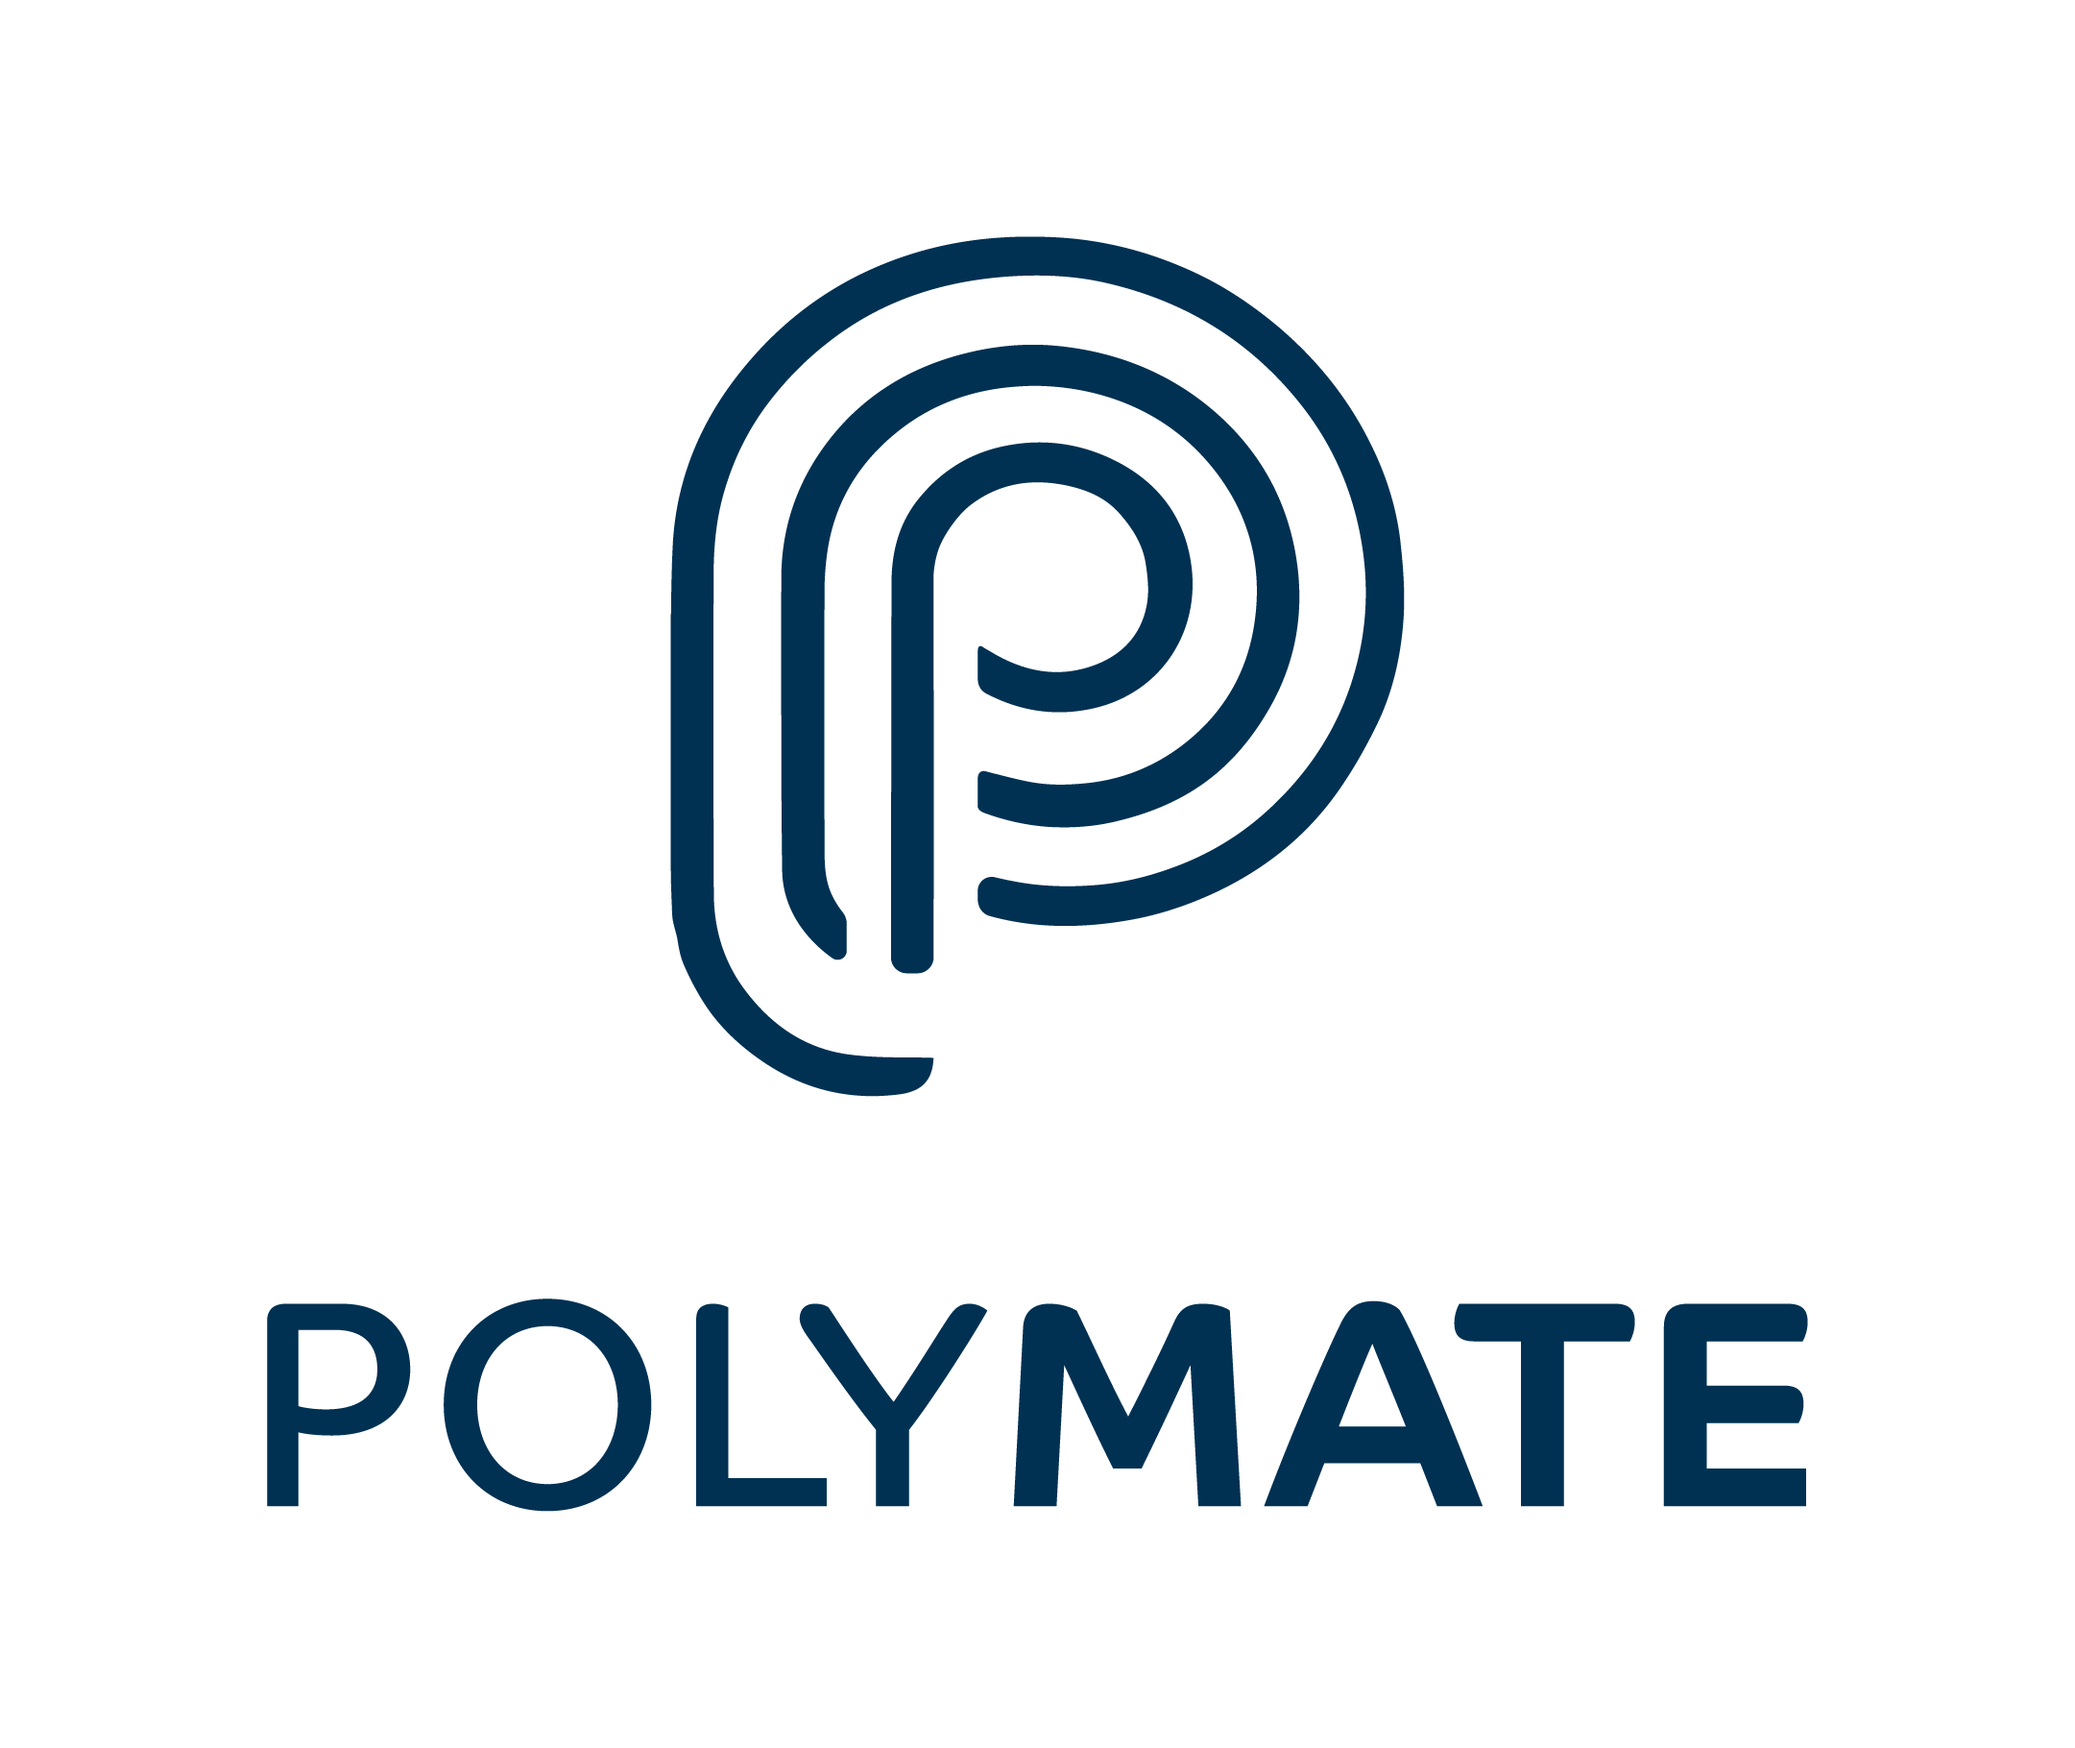
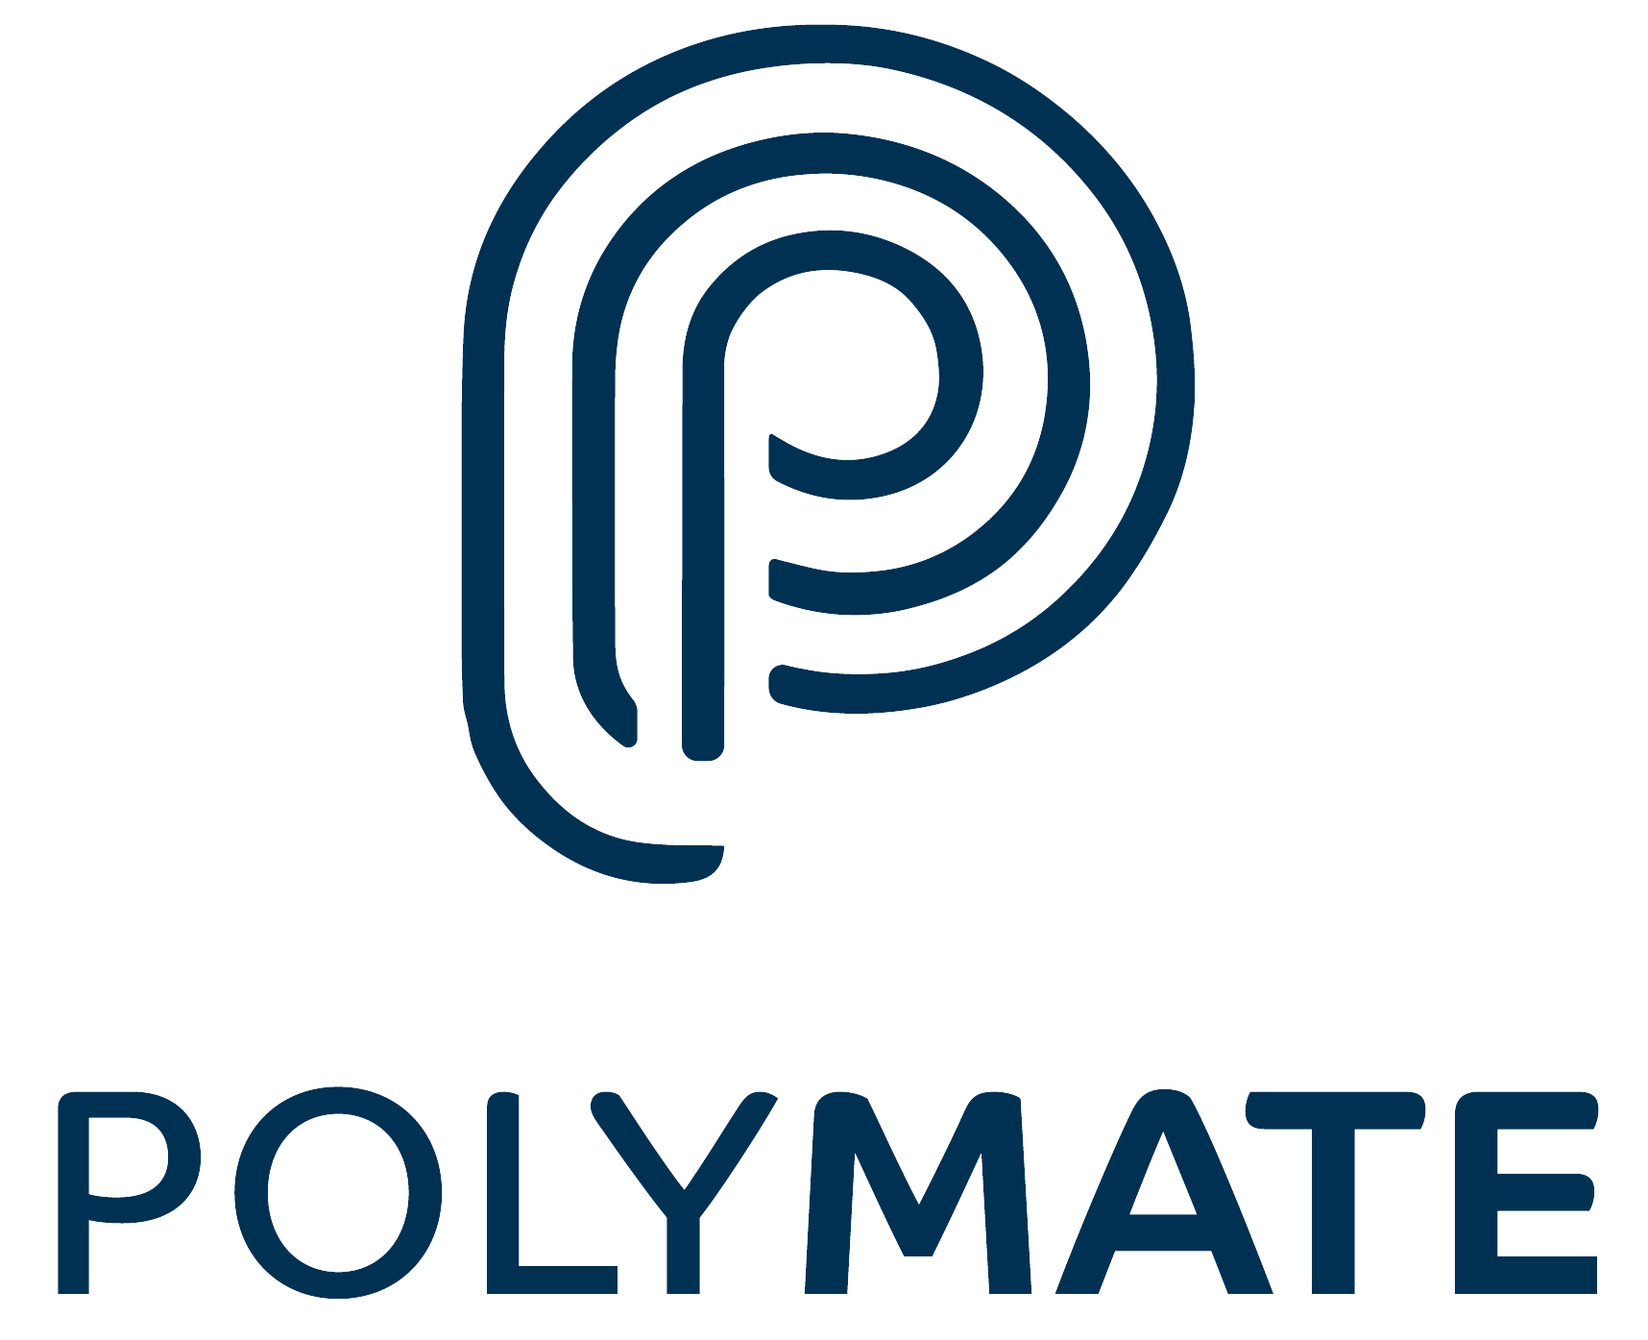
sponsor_changed

Changed region(s): [[0.278, 0.0, 0.7413, 0.6781], [0.0309, 0.7398, 0.9883, 0.9864]]

diff --git a/style.css b/style.css
@@ -98,10 +98,10 @@ header .shadow{
     display:grid;
     grid-template-columns: repeat(auto-fit, minmax(17rem, 1fr));
     align-items: center;
-    gap: 1.5rem;
-    background-image: url('images/robo2024_1.jpg');
+    gap: 2rem;
+    background-image: url('images/robo2024_7.JPG');
     background-size: cover; 
-    background-position: center; 
+    background-position: bottom;
 }
 
 .home-text h1{
@@ -129,7 +129,8 @@ header .shadow{
     background: var(--main-color);
     padding: 0.8rem 2rem;
     color: white;
-    font-weight: 500;
+    font-weight: 600;
+    font-size: 20px;
 }
 .register:hover{
     background: var(--main-color);
@@ -210,10 +211,71 @@ header .shadow{
     letter-spacing: 2px;
     transition: 0.2s;
 }
+
+.sponsor {
+    margin-top: 5rem;
+    padding: 50px 0;
+    background-color: #f9f9f9;
+    text-align: center;
+}
+.sponsor-content {
+    max-width: 1000px;
+    margin: 0 auto;
+    background: #fff;
+    padding: 1.5rem;
+    box-shadow: 0px 5px 15px rgba(0, 0, 0, 0.1);
+    border-radius: 10px;
+    text-align: center;
+}
+.sponsor-header h1{
+    font-size: 2rem;
+    color: var(--main-color);
+    border-bottom: 3px solid var(--main-color);
+    display: inline-block;
+    padding-bottom: 3px;
+    margin-bottom: 1.5rem;
+}
+
+.organized-text p, .collab-text p{
+    font-size: 24px;
+    font-weight: 700;
+}
+
+.organized img{
+   width: 200px;
+   margin-top: 1rem;
+   margin-bottom: 1rem;
+   align-items: center;
+
+}
+
+.collab {
+    display: flex;
+    justify-content: center;
+    align-items: flex-end; 
+    gap: 8rem;
+}
+.collab img {
+    max-height: 100px;
+    margin-top: 0.5rem;
+}
+.sutd{
+    width: 200px;
+}
+.cocorobo{
+    position: relative;
+    width: 250px;
+    top:-1rem;
+}
+.polymate{
+    width: 120px;
+}
+
 .contact {
     padding: 50px 0;
     background-color: #f9f9f9;
     text-align: center;
+    margin-top: 5rem;
 }
 strong{
     color: var(--main-color);
@@ -225,6 +287,7 @@ strong{
     background: #fff;
     box-shadow: 0px 0px 10px rgba(0, 0, 0, 0.1);
     border-radius: 10px;
+
 }
 
 .contact-us h2 {
@@ -259,54 +322,6 @@ strong{
     color: var(--main-color);
 }
 
-/* Map Container */
-.map-container {
-    width: 100%;
-    max-width: 600px;
-    height: 350px;
-    margin: 20px auto;
-    border-radius: 10px;
-    overflow: hidden;
-    box-shadow: 0px 0px 10px rgba(0, 0, 0, 0.2);
-}
-
-.map-container iframe {
-    width: 100%;
-    height: 100%;
-    border: none;
-}
-.heading h1{
-    text-align: center;
-    font-size: 36px;
-}
-.sponsor-content{
-    display: flex;
-    width: 100%;
-    padding:5px 0;
-    background-color: rgb(255, 255, 255);
-}
-
-.sponsor-left{
-    flex:1.5;
-    text-align: left;
-    margin-left: 5rem;
-}
-
-.sponsor-right{
-    flex:2.5;
-    text-align: left;
-    margin-left: 3rem;
-}
-
-.organize, .collab{
-    font-size: 18px;
-    font-weight: bold;
-}
-.sponsor-img{
-    gap: 60px;
-    display: flex;
-    flex-wrap: wrap;
-}
 
 .footer-logos {
     text-align: center; /* Center the image */

diff --git a/index.html b/index.html
@@ -19,6 +19,7 @@
             <li><a href="#about">About</a></li>
             <li><a href="competition.html">Competition</a></li>
             <li><a href="rules.html">Rules</a></li>
+            <li><a href="#sponsor">Sponsors</a></li>
             <li><a href="#contact">Contact Us</a></li>
         </ul>
     </header>
@@ -30,13 +31,10 @@
                 <h1 class="title">RoboClash 2025:</h1>
                 <h2>Rescue Rally</h2>
                 <p>Singapore's Largest Undergraduate-Organised<br> Robotics Competition </p>
-                <a href="https://forms.office.com/Pages/ResponsePage.aspx?id=drd2NJDpck-5UGJImDFiPZ0x4lBoJ0FJp4ph0q2ywpVUMkFORkRLVkg1S09RSVRDVUFVQTZUTE00WS4u" class="register">Register now</a>
+                <a href="https://forms.office.com/Pages/ResponsePage.aspx?id=drd2NJDpck-5UGJImDFiPZ0x4lBoJ0FJp4ph0q2ywpVUMkFORkRLVkg1S09RSVRDVUFVQTZUTE00WS4u" class="register">Register Now</a>
         </div>
             
         </div>
-        <!-- <div class="home-img">
-            <img src="images/robo2.png" alt="">
-        </div> -->
     </section>
     <br><br><br>
     <!--About-->
@@ -67,7 +65,35 @@
             </div>
         </div>
     </section>
-    <br><br>
+
+    <!--Sponsor-->
+    <section class="sponsor" id="sponsor">
+        <div class="sponsor-content">
+            <div class="sponsor-header">
+                <h1>Sponsors</h1>
+            </div>
+            <div class="organized-text">
+                <p>
+                Organized by
+                </p>
+            </div>
+            <div class="organized">
+                <img src="images/soar.png" alt="">
+            </div>
+            <div class="collab-text">
+                <p>
+                In Collaboration With
+                </p>
+            </div>
+            <div class="collab">
+                <img class="sutd" src="images/sutd.png" alt="sutd logo">
+                <img class= "cocorobo" src="images/cocorobo.png" alt="cocorobo logo">
+                <img class="polymate" src="images/polymate.png" alt="polymate logo">
+            </div>
+        </div>
+
+    </section>
+
     <!--contact-->
     <section class="contact" id="contact">
         <div class="contact-us">
@@ -78,22 +104,12 @@
         </div>
     </section>
 
+
+
     <script src="main.js"></script>
 </body>
 <br><br>
 <footer class="sponsor-footer">
-    <div class="sponsor-content">
-        <div class="sponsor-left">
-            <p class="organize">Organized by</p>
-        </div>
-        <div class="sponsor-right">
-            <p class="collab">In Collaboration With</p>
-            <div class="sponsor-img">
-            </div>
-        </div>
-    </div>
-    <div class="footer-logos">
-        <img src="images/footer_logos.png" alt="Sponsors" />
-    </div>
+    
 </footer>
 </html>
